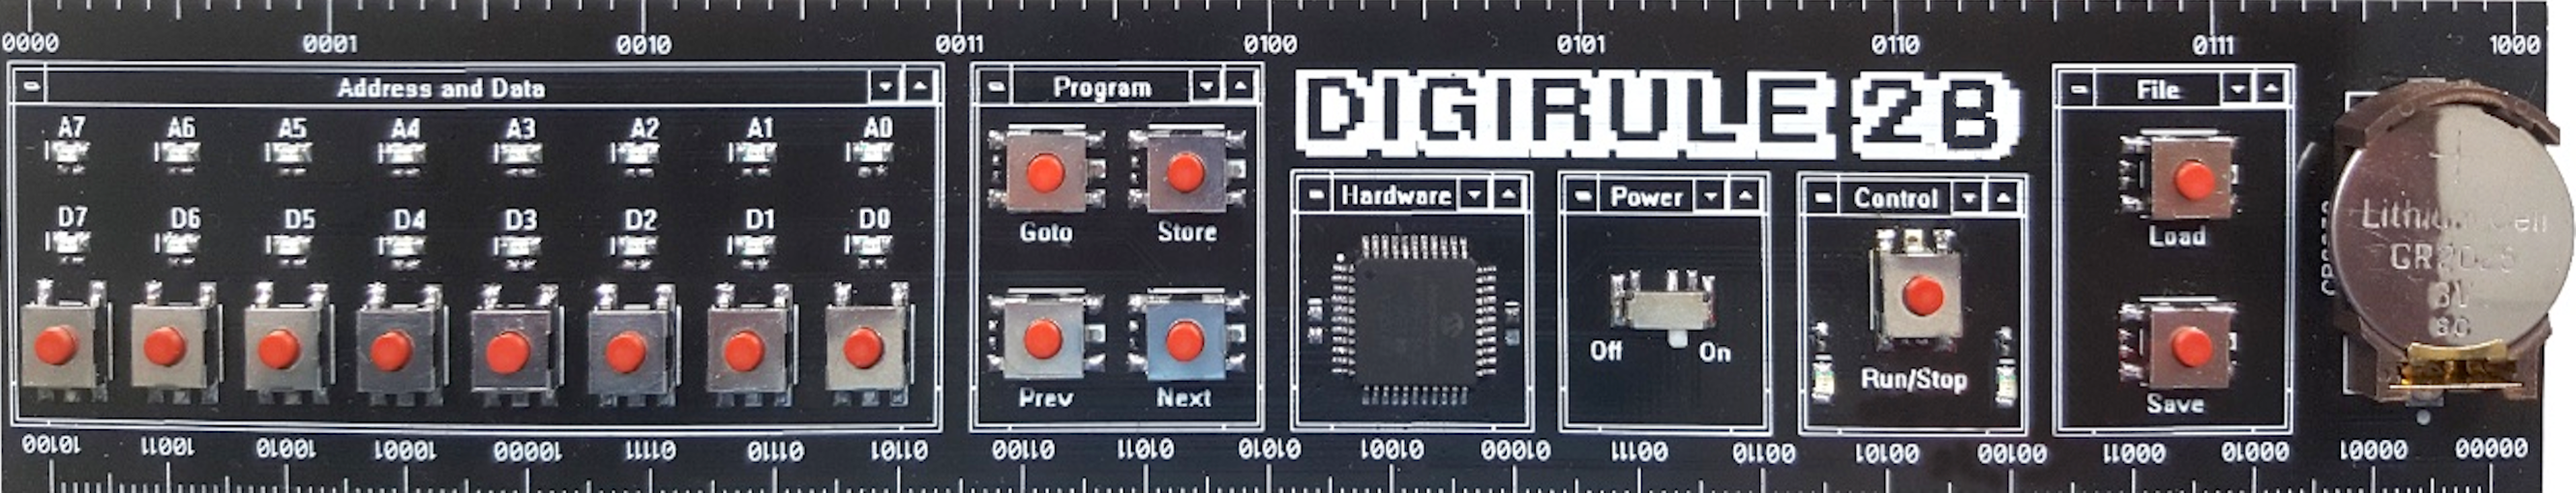
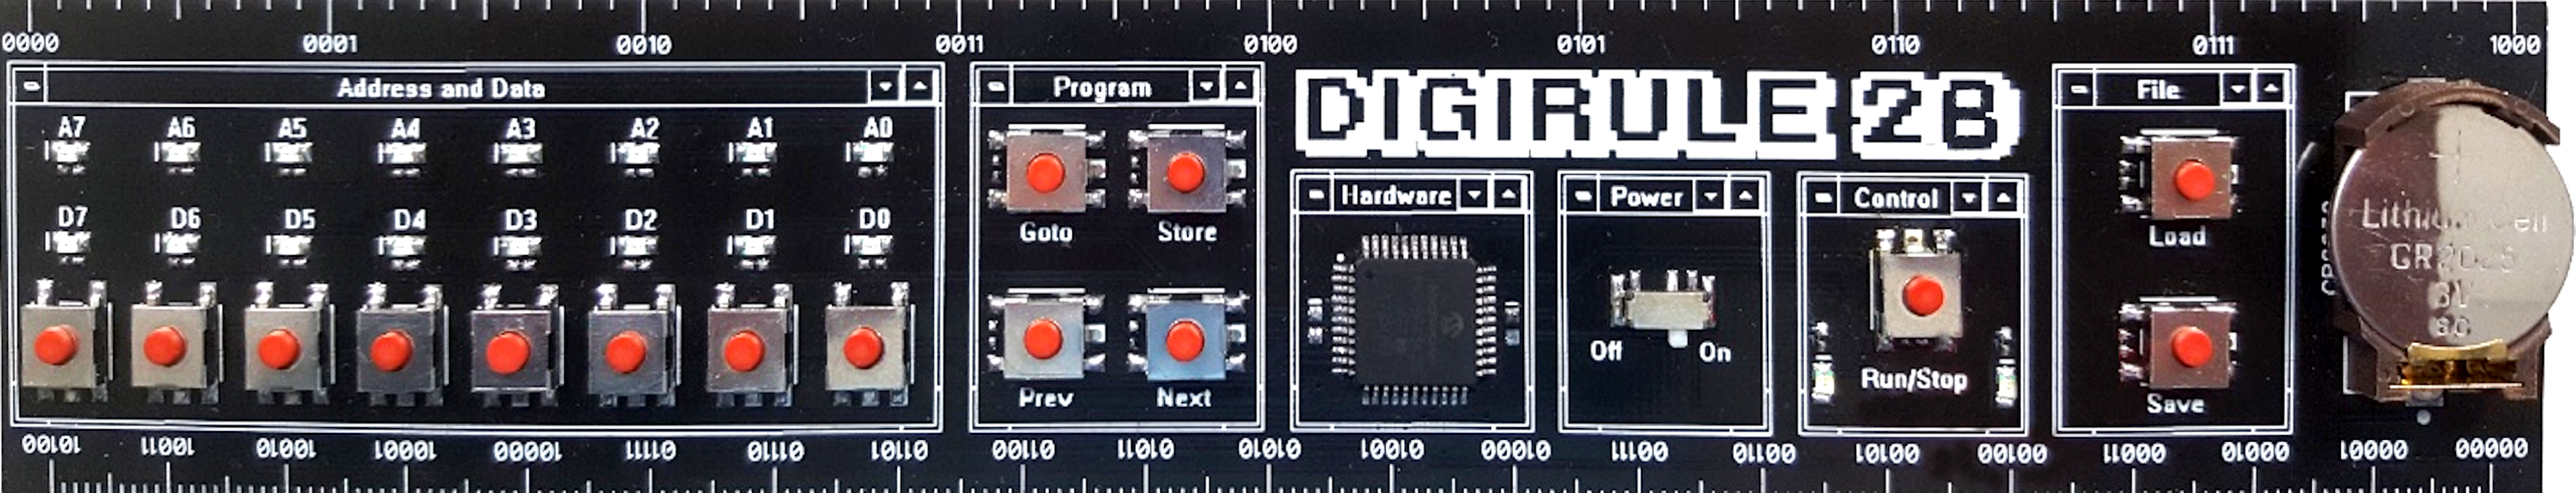
update canvas for 2B

diff --git a/src/digirules/digirule_description_2B.py b/src/digirules/digirule_description_2B.py
@@ -15,28 +15,28 @@ OFFSET_SCALE = (1000/399, 500/200)
 
 # All the positions for buttons
 buttons_positions = {
-    (25, 140): "d_btn7",
-    (71, 140): "d_btn6",
-    (117, 140): "d_btn5",
-    (165, 140): "d_btn4",
-    (213, 140): "d_btn3",
-    (262, 140): "d_btn2",
-    (310, 140): "d_btn1",
-    (360, 140): "d_btn0",
+    (25, 144): "d_btn7",
+    (71, 144): "d_btn6",
+    (117, 144): "d_btn5",
+    (165, 144): "d_btn4",
+    (213, 144): "d_btn3",
+    (262, 144): "d_btn2",
+    (310, 144): "d_btn1",
+    (357, 144): "d_btn0",
     (432, 70): "btn_goto",
     (490, 70): "btn_store",
-    (490, 136): "btn_next",
-    (432, 136): "btn_prev",
-    (793, 120): "btn_run",
-    (904, 136): "btn_save",
-    (904, 70): "btn_load",
+    (490, 140): "btn_next",
+    (432, 140): "btn_prev",
+    (793, 123): "btn_run",
+    (904, 146): "btn_save",
+    (904, 75): "btn_load",
 }
 
 # Rectangle-shape buttons and larger buttons
 special_buttons_rectangles = {
     (559, 108, 605, 155): "btn_ram",
-    (670, 118, 703, 128): "btn_clear",
-    (970, 50, 1050, 130): "btn_power"
+    (670, 120, 703, 135): "btn_clear",
+    (970, 55, 1050, 140): "btn_power"
 }
 
 # Rows of LEDs
